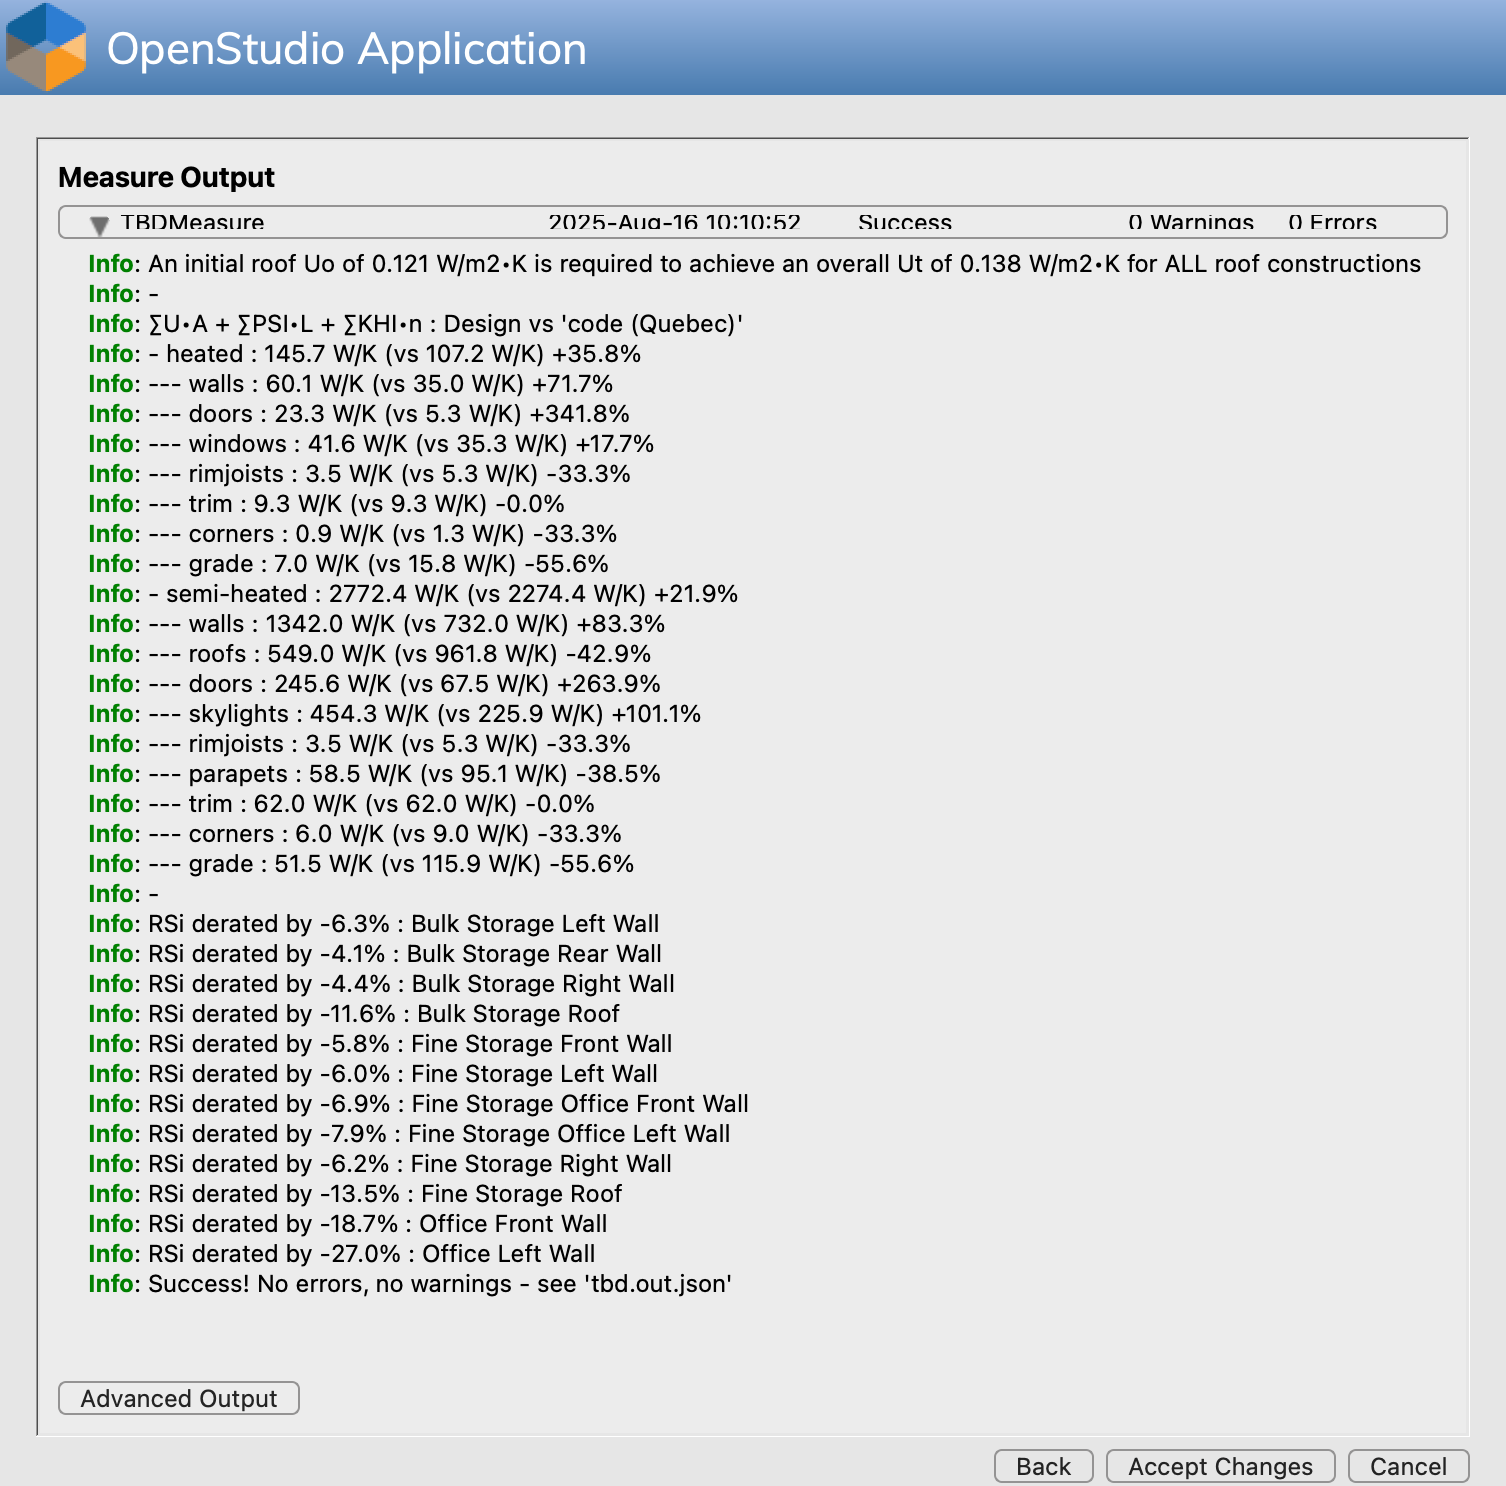
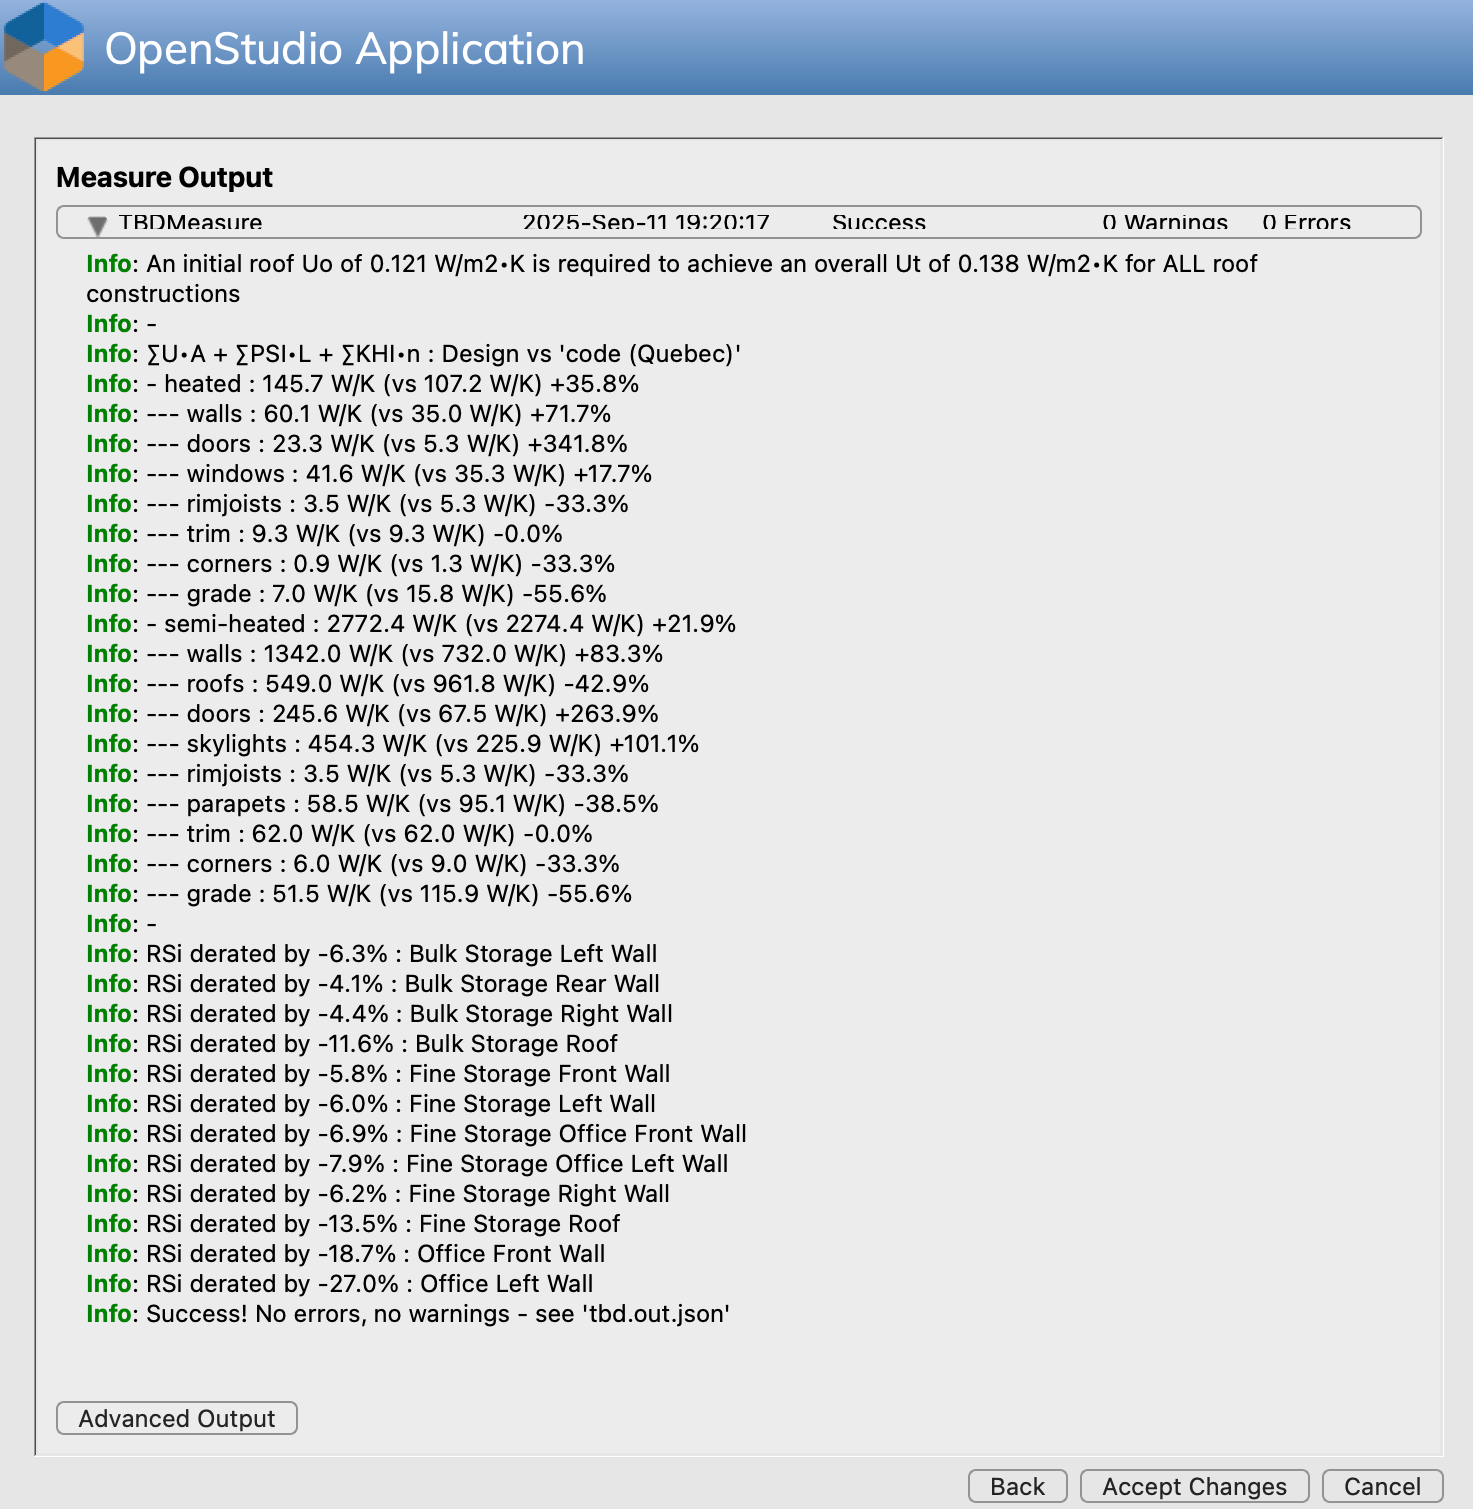
v350 updates

Changed region(s): [[0.0312, 0.0, 0.9681, 0.8977], [0.6558, 0.9596, 0.9993, 1.0], [0.0312, 0.9287, 0.2186, 0.9596]]

diff --git a/index.md b/index.md
@@ -20,7 +20,7 @@ Relying on the OpenStudio [SDK](https://openstudio-sdk-documentation.s3.amazonaw
 
 ### [Building energy modelling](#building-energy-modelling)
 
-While materials, constructions and envelope surfaces are well-defined variables in OpenStudio (and energy simulation engines like EnergyPlus), shared _edges_ and _points_ are simply not! TBD automatically factors _psi_ and _khi_ losses from _major_ thermal bridges it manages, by further _derating_ a construction's _clear-field effective R-value_ - more specifically by further decreasing its insulating layer thickness. If the insulation layer becomes too thin, TBD then increases insulation conductivity. This approach, in line with published research and standards such as ASHRAE's [RP-1365](https://www.techstreet.com/standards/rp-1365-thermal-performance-of-building-envelope-details-for-mid-and-high-rise-buildings?product_id=1806751), _BETBG_ & _thermalenvelope.ca_, as well as ISO [10211](https://www.iso.org/standard/65710.html) and [14683](https://www.iso.org/standard/65706.html) Standards, is best summarized as follows:
+While materials, constructions and envelope surfaces are well-defined variables in OpenStudio (and energy simulation engines like EnergyPlus), shared _edges_ and _points_ are simply not! TBD automatically factors _psi_ and _khi_ losses from _major_ thermal bridges it manages, by further _derating_ a construction's _clear-field effective R-value_ - more specifically by further increasing the thermal conductivity of its _insulating_ layer. If the insulation gets too conductive, TBD instead decreases insulation thickness. This approach, in line with published research and standards such as ASHRAE's [RP-1365](https://www.techstreet.com/standards/rp-1365-thermal-performance-of-building-envelope-details-for-mid-and-high-rise-buildings?product_id=1806751), _BETBG_ & _thermalenvelope.ca_, as well as ISO [10211](https://www.iso.org/standard/65710.html) and [14683](https://www.iso.org/standard/65706.html) Standards, is best summarized as follows:
 ```
 Ut = Uo + ( ∑psi • L )/A + ( ∑khi • n )/A
 ```
@@ -36,7 +36,7 @@ __A__ : opaque surface area
 
 TBD users are required to initially select generic __psi__ and __khi__ factors that best characterize the _major_ thermal bridges in their project (see [Settings](./pages/settings.html#tbd-menu-options "TBD settings")). TBD will apply these values against individual _edge_ occurrences Topolys identifies in the OpenStudio model. Geometric variables like __L__ and __A__ are also automatically extracted from the model (... __n__ requires special treatment, discussed in the [Customization](./pages/custom.html#khi-inputs "Customizing TBD inputs") section).
 
-Each OpenStudio construction (that TBD may alter) is comprised of multiple material layers (typically 2 or 3 at a minimum), each of which has a thermal resistance. Users are expected to have already factored in _minor_ thermal bridging effects, for instance by decreasing the nominal thickness of the _insulating_ layer of each construction - a common technique in building energy modelling. __Uo__ is simply the inverse of the sum of resulting layer resistances and surface air films. Behind the scenes, TBD automatically generates new _derated_ materials and surface-specific constructions - each surface now having its own unique __Ut__.
+Each OpenStudio construction (that TBD may alter) is comprised of multiple material layers (typically 2 or 3 at a minimum), each of which has a thermal resistance. Users are expected to have already factored in _minor_ thermal bridging effects, for instance by increasing the thermal conductivity of the _insulating_ layer of each construction - a common technique in building energy modelling. __Uo__ is simply the inverse of the sum of resulting layer resistances and surface air films. Behind the scenes, TBD automatically generates new _derated_ materials and surface-specific constructions - each surface now having its own unique __Ut__.
 
 As discussed in greater detail in [Settings](./pages/settings.html#minimal-model-requirements "TBD settings"), users are required to have:
 - a fully-enclosed OpenStudio model

diff --git a/pages/launch.md b/pages/launch.md
@@ -1,8 +1,10 @@
 ### Launching
 
-OpenStudio users typically first need to specify where downloaded _measures_ are stored on their workstation (_Preferences_ > _Change My Measures Directory_) - just download TBD in there (click on the _download_ links at the top of the page, or download from GitHub or [BCL](https://bcl.nrel.gov/dashboard "OpenStudio's Building Component Library") - search for "tbd" or "rd2"). Then in the _OpenStudio Application_, simply drag & drop TBD in the _Measures_ tab.
+One can access TBD using the [BCL](https://bcl.nrel.gov/dashboard "OpenStudio's Building Component Library") feature in the _OpenStudio Application_'s _Measures_ tab - search for "tbd" or "rd2".  As a fallback, OpenStudio users can also get TBD by clicking on the _download_ links at the top of this page. In such cases, users would first need to specify where downloaded _measures_ should be stored on their workstation (_Preferences_ > _Change My Measures Directory_).
 
-As with other OpenStudio measures, by default TBD does not modify the original OpenStudio model (e.g. with new _derated_ constructions). OpenStudio instead makes a behind-the-scenes copy of the model, which in turn is modified by measures before simulation. Although the terminology may be at first confusing, leave the __Alter OpenStudio model__ option CHECKED for EnergyPlus simulations (see [menu options](./settings.html#tbd-menu-options "TBD settings")). This checkbox option is really there for _Apply Measures Now_ cases, as detailed below. Once the __Default thermal bridge set__ is selected, save the model and run the simulation.
+Once downloaded, simply drag & drop TBD under _OpenStudio Measures_, in the _Measures_ tab.
+
+As with other OpenStudio measures, TBD does not modify the original OpenStudio model (e.g. with new _derated_ constructions). OpenStudio instead makes a behind-the-scenes copy of the model, which in turn is modified by one or more measures before simulation. Although the terminology may be at first confusing, leave the __Alter OpenStudio model__ option CHECKED for EnergyPlus simulations (see [menu options](./settings.html#tbd-menu-options "TBD settings")). This checkbox option is really there for _Apply Measures Now_ cases, as detailed below. Once the __Default thermal bridge set__ is selected, save the model and run the simulation.
 
 ### [Apply Measures Now](#apply-measures-now)
 

diff --git a/pages/custom.md b/pages/custom.md
@@ -60,7 +60,7 @@ Notice how the "not bad" _psi_ factor set above is concise, more so than any TBD
 - missing "balconydoorsill" inherits from "balconysill"
 - misisng "balconysill" inherits from "balcony"
 
-It's important to explicitly list specific edge types (in custom _psi_ factor sets), to prevent TBD from applying its default inheritance rules.
+Depending on the objective, it may be necessary to explicitly list specific edge types (in custom _psi_ factor sets), to prevent TBD from applying its default inheritance rules.
 
 ### [Managing multiple custom _psi_ factor sets](#managing-multiple-custom-psi-factor-sets)
 
@@ -253,7 +253,7 @@ If one comes across published _psi_ factor data that distinguishes between fenes
   }
 }
 ```
-There are obviously many, many possible combinations. TBD's GitHub repository contains some additional [examples](https://github.com/rd2/tbd/tree/master/json), yet many more on TBD's dedicated test [repo](https://github.com/rd2/tbd_tests/tree/develop/json). Although this may at first seem complex and intimidating for the average designer or modeller, it remains similar to OpenStudio with regards to default construction sets: it can be very simple, and it only needs to be as complex as the actual design. With such freedom (with both OpenStudio and TBD inputs) comes responsibility - something users and modellers must carefully consider and plan out accordingly.
+There are obviously many, many possible combinations. TBD's GitHub repository contains some additional [examples](https://github.com/rd2/tbd/tree/master/json), many more on TBD's dedicated test [repo](https://github.com/rd2/tbd_tests/tree/develop/json). Although this may at first seem complex and intimidating for the average designer or modeller, it remains similar to OpenStudio with regards to default construction sets: it can be very simple, and it only needs to be as complex as the actual design. With such freedom (with both OpenStudio and TBD inputs) comes responsibility - something users and modellers must carefully consider and plan out accordingly.
 
 ### [A side note on dimensioning](#a-side-note-on-dimensioning)
 
